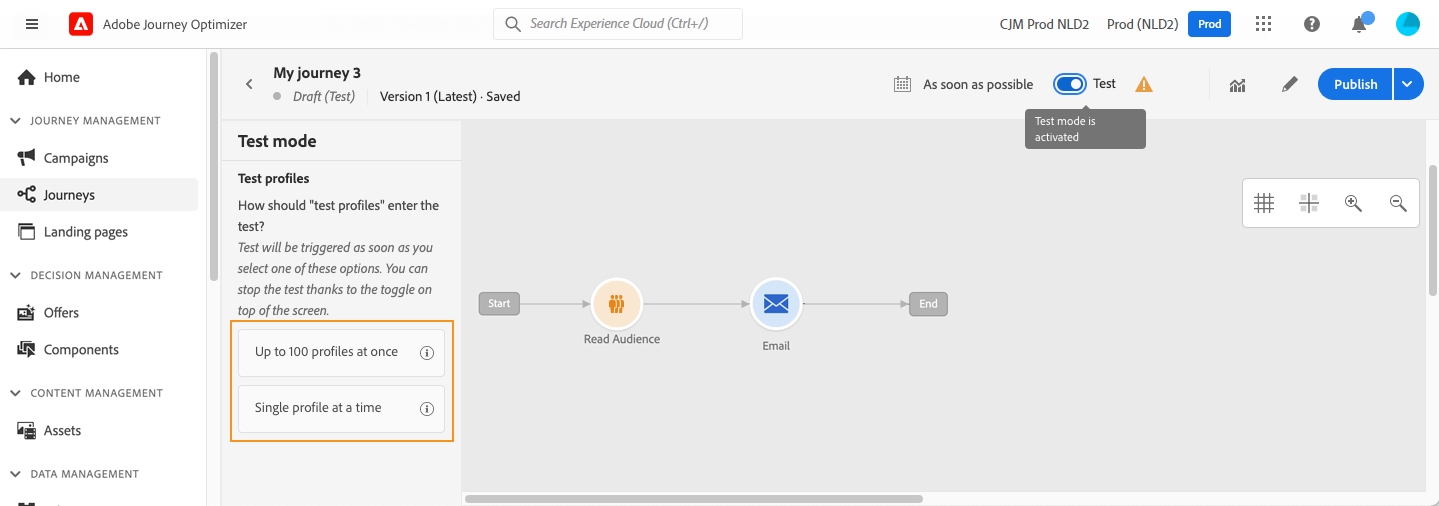
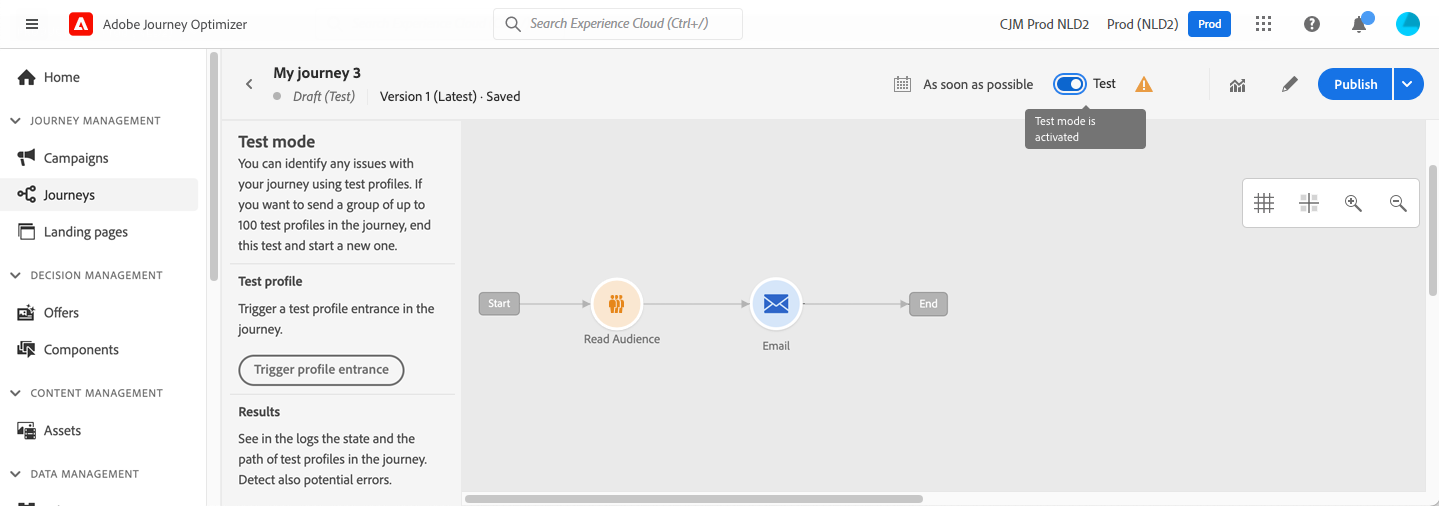
Fvi 23.9 (#1436)
* fix

* update for DOCAC-9088

* fix

* update for DOCAC-9265

* update for DOCAC-9089

* update for DOCAC-9165

* fix

* fix

* update for DOCAC-9174

* update for DOCAC-9174

* fix

* fix

* fix

* fix

* small fixes

* update for DOCAC-9147

* fix

* fix

* fix

* fix

Changed region(s): [[0.1529, 0.2668, 0.3058, 0.7708], [0.1529, 0.8597, 0.3058, 0.9783], [0.1529, 0.8004, 0.2752, 0.83]]

diff --git a/help/using/action/action-response.md b/help/using/action/action-response.md
@@ -11,20 +11,58 @@ badge: label="Beta" type="Informative"
 keywords: action, third-party, custom, journeys, API
 exl-id: 8f47b605-7179-4522-b50c-0ea34b09bd22
 ---
-# Custom action enhancements {#custom-action-enhancements}
+# Use API call responses in custom actions {#custom-action-enhancements}
 
-You can now leverage API call responses in custom actions and orchestrate your journeys based on these responses.
-
-This capability was previously only available when using data sources. You can now use it with custom actions. 
+You can leverage API call responses in custom actions and orchestrate your journeys based on these responses.
 
 >[!AVAILABILITY]
 >
->This feature is currently available as a private beta.
+>This feature is currently available in beta.
 
->[!WARNING]
->
->Custom actions should only be used with private or internal endpoints, and used with an appropriate capping or throttling limit. See [this page](../configuration/external-systems.md).
+<!--
+You can now leverage API call responses in custom actions and orchestrate your journeys based on these responses.
 
+This capability was previously only available when using data sources. You can now use it with custom actions. 
+-->
+
+## Important notes{#custom-action-enhancements-notes}
+
+<!--
+* Custom actions should only be used with private or internal endpoints, and used with an appropriate capping or throttling limit. See [this page](../configuration/external-systems.md). 
+-->
+
+* Scalar arrays are supported in response payload:
+
+    ```
+    "dummyScalarArray": [
+    "val1",
+    "val2"
+    ]
+    ```
+
+* Heterogeneous arrays are not supported in response payload:
+
+    ```
+    "dummyRandomArray": [
+    20,
+    "aafw",
+    false
+    ]
+    ```
+
+<!--
+## Best practices{#custom-action-enhancements-best-practices}
+
+A capping limit of 5000 calls/s is defined for all custom actions. This limit has been set based on customers usage, to protect external endpoints targeted by custom actions. You need to take this into account in your audience-based journeys by defining an appropriate reading rate (5000 profiles/s when custom actions are used). If needed, you can override this setting by defining a greater capping or throttling limit through our Capping/Throttling APIs. See [this page](../configuration/external-systems.md).
+
+You should not target public endpoints with custom actions for various reasons:
+
+* Without proper capping or throttling, there is a risk of sending too many calls to a public endpoint that may not support such volume.
+* Profile data can be sent through custom actions, so targeting a public endpoint could lead to inadvertently sharing personal information externally.
+* You have no control on the data being returned by public endpoints. If an endpoint changes its API or starts sending incorrect information, those will be made available in communications sent, with potential negative impacts.
+-->
+
+<!--
 ## Define the custom action {#define-custom-action}
 
 When defining the custom action, two enhancements have been made available: the addition of the GET method and the new payload response field. The other options and parameters are unchanged. See [this page](../action/about-custom-action-configuration.md).
@@ -49,10 +87,15 @@ The **Action parameters** section has been renamed **Payloads**. Two fields are 
 >Both these fields are optional.
 
 ![](assets/action-response2.png){width="70%" align="left"}
+-->
+
+## Configure the custom action {#config-response}
+
+1. Create the custom action. Refer to [this page](../action/about-custom-action-configuration.md).
 
 1. Click inside the **Response** field. 
 
-    ![](assets/action-response3.png){width="80%" align="left"}
+    ![](assets/action-response2.png){width="80%" align="left"}
 
 1. Paste an example of the payload returned by the call. Verify that the field types are correct (string, integer, etc.). Here is an example of response payload captured during the call. Our local endpoint sends the number of loyalty points and the status of a profile. 
 
@@ -111,6 +154,12 @@ For example, you can add a condition to check the number of loyalty points. When
 1. Add a custom action that will be sent to your organization.
 
     ![](assets/action-response11.png)
+
+## Test mode logs {#test-mode-logs}
+
+You can access, through test mode, status logs related to custom action responses. If you have defined custom actions with responses in your journey, you will see an **actionsHistory** section on those logs displaying the payload returned by the external endpoint (as a response from that custom action). This can be very useful in terms of debugging.
+
+![](assets/action-response12.png)
 
 ## Error status {#error-status}
 

diff --git a/help/using/action/about-custom-action-configuration.md b/help/using/action/about-custom-action-configuration.md
@@ -29,6 +29,16 @@ In custom action parameters, you can pass a simple collection, as well as a coll
 
 Also note that the custom actions parameters have an expected format (example: string, decimal, etc.). You must be careful to respect these expected formats. Learn more in this [use case](../building-journeys/collections.md).
 
+## Best practices{#custom-action-enhancements-best-practices}
+
+A capping limit of 5000 calls/s is defined for all custom actions. This limit has been set based on customers usage, to protect external endpoints targeted by custom actions. You need to take this into account in your audience-based journeys by defining an appropriate reading rate (5000 profiles/s when custom actions are used). If needed, you can override this setting by defining a greater capping or throttling limit through our Capping/Throttling APIs. See [this page](../configuration/external-systems.md).
+
+You should not target public endpoints with custom actions for various reasons:
+
+* Without proper capping or throttling, there is a risk of sending too many calls to a public endpoint that may not support such volume.
+* Profile data can be sent through custom actions, so targeting a public endpoint could lead to inadvertently sharing personal information externally.
+* You have no control on the data being returned by public endpoints. If an endpoint changes its API or starts sending incorrect information, those will be made available in communications sent, with potential negative impacts.
+
 ## Consent and data governance {#privacy}
 
 In Journey Optimizer, you can apply data governance and consent policies to your custom actions to prevent specific fields from being exported to third-party systems or exclude customers who have not consented to receive email, push or SMS communication. For more information, refer to the following pages:
@@ -64,11 +74,11 @@ Here are the main steps required to configure a custom action:
     >
     >When a custom action is used in a journey, most parameters are read-only. You can only modify the **[!UICONTROL Name]**, **[!UICONTROL Description]**, **[!UICONTROL URL]** fields and the **[!UICONTROL Authentication]** section.
 
-## URL configuration {#url-configuration}
+## Endpoint configuration {#url-configuration}
 
-When configuring a custom action, you need to define the following **[!UICONTROL URL Configuration]** parameters:
+When configuring a custom action, you need to define the following **[!UICONTROL Endpoint Configuration]** parameters:
 
-![](assets/journeyurlconfiguration.png)
+![](assets/action-response1bis.png){width="70%" align="left"}
 
 1. In the **[!UICONTROL URL]** field, specify the URL of the external service:
 
@@ -86,7 +96,7 @@ When configuring a custom action, you need to define the following **[!UICONTROL
     >
     >Only the default ports are allowed when defining a custom action: 80 for http and 443 for https.
 
-1. Select the call **[!UICONTROL Method]**: it can be either **[!UICONTROL POST]** or **[!UICONTROL PUT]**.
+1. Select the call **[!UICONTROL Method]**: it can be either **[!UICONTROL POST]**, **[!UICONTROL GET]** or **[!UICONTROL PUT]**.
 
     >[!NOTE]
     >
@@ -112,11 +122,17 @@ When configuring a custom action, you need to define the following **[!UICONTROL
     >
     >Headers are validated according to field parsing rules. Learn more in [this documentation](https://tools.ietf.org/html/rfc7230#section-3.2.4){_blank}.
 
-## Define the action parameters {#define-the-message-parameters}
+## Define the payload parameters {#define-the-message-parameters}
 
-In the **[!UICONTROL Action parameters]** section, paste an example of the JSON payload to send to the external service.
+1. In the **[!UICONTROL Request]** section, paste an example of the JSON payload to send to the external service. This field is optional and only available for POST and PUT calling methods.
 
-![](assets/messageparameterssection.png)
+1. In the **[!UICONTROL Response]** section, paste an example of the payload returned by the call. This field is optional and available for all calling methods. For detailed information on how to leverage API call responses in custome actions, refer to [this page](../action/action-response.md).
+
+>[!NOTE]
+>
+>The response capability is currently available in beta.
+
+![](assets/action-response2bis.png){width="70%" align="left"}
 
 >[!NOTE]
 >

diff --git a/help/using/building-journeys/read-audience.md b/help/using/building-journeys/read-audience.md
@@ -110,23 +110,17 @@ To activate this mode, click the **Segment Filters** toggle. Two fields are disp
 
 ### Test and publish the journey {#testing-publishing}
 
-The **[!UICONTROL Read Audience]** activity allows you to test the journey either on a unitary profile, or on 100 randomly test profiles selected among the profiles qualified for the audience.
+The **[!UICONTROL Read Audience]** activity allows you to test the journey on a unitary profile.
 
-To do this, activate the test mode, then select the desired option from the left pane.
+To do this, activate the test mode.
 
 ![](assets/read-segment-test-mode.png)
 
-You can then configure and run the test mode as usual. [Learn how to test a journey](testing-the-journey.md).
+Configure and run the test mode as usual. [Learn how to test a journey](testing-the-journey.md).
 
-Once the test is running, the **[!UICONTROL Show logs]** button allows you to see the test results according to the selected test option:
+Once the test is running, the **[!UICONTROL Show logs]** button allows you to see the test results. For more on this, refer to [this section](testing-the-journey.md#viewing_logs)
 
-* **[!UICONTROL Single profile at a time]**: the test logs display the same information as when using the unitary test mode. For more on this, refer to [this section](testing-the-journey.md#viewing_logs)
-
-* **[!UICONTROL Up to 100 profiles at once]**: the test logs allow you to track the progression of the audience export from Adobe Experience Platform, as well as the individual progress of all the persons that entered the journey.
-
-    Note that testing the journey using up to 100 profiles at once does not allow you to track the progress of the individuals in the journey using the visual flow.
-
-    ![](assets/read-segment-log.png)
+![](assets/read-segment-log.png)
 
 Once the tests are successful, you can publish your journey (see [Publishing the journey](publishing-the-journey.md)). Individuals belonging to the audience will enter the journey on the date/time specified in the journey's properties **[!UICONTROL Scheduler]** section.
 

diff --git a/help/using/building-journeys/audience-qualification-events.md b/help/using/building-journeys/audience-qualification-events.md
@@ -25,14 +25,17 @@ Let's say you have a "silver customer" audience. With this activity, you can mak
 
 This type of event can be positioned as the first step or later in the journey.
 
->[!IMPORTANT]
->
->Keep in mind that Adobe Experience Platform audiences are calculated either once a day (**batch** audiences) or in real-time (**streamed** audiences, using the High Frequency Audiences option of Adobe Experience Platform).
->
->If the selected audience is streamed, the individuals belonging to this audience will potentially enter the journey in real-time. If the audience is batch, people newly qualified for this audience will potentially enter the journey when the audience calculation is executed on Adobe Experience Platform.
->
->Experience event field groups can not be used in journeys starting with a Read audience, an Audience qualification or a business event activity.
+### Important notes{#important-notes-segment-qualification}
 
+* Keep in mind that Adobe Experience Platform audiences are calculated either once a day (**batch** audiences) or in real-time (**streamed** audiences, using the High Frequency Audiences option of Adobe Experience Platform).
+
+* If the selected audience is streamed, the individuals belonging to this audience will potentially enter the journey in real-time. If the audience is batch, people newly qualified for this audience will potentially enter the journey when the audience calculation is executed on Adobe Experience Platform.
+
+* Experience event field groups can not be used in journeys starting with a Read audience, an Audience qualification or a business event activity.
+
+* When using an audience qualification in a journey, that audience qualification activity may take up to 10 minutes to be active and listen to profiles entering or exiting the audience.
+
+### Configure the activity{#cnfigure-segment-qualification}
 
 1. Unfold the **[!UICONTROL Events]** category and drop an **[!UICONTROL Audience Qualification]** activity into your canvas.
 

diff --git a/help/using/building-journeys/journeys-message.md b/help/using/building-journeys/journeys-message.md
@@ -114,6 +114,24 @@ This information is stored with the user's profile and is referenced at journey 
 >
 >This feature is not compatible with burst mode.
 
+### Frequently-Asked-Questions {#faq-send-time}
+
+What can Send-Time Optimization do? How does it handle new profiles? Does it spread the send over a 6/12/24 hour window?
+
+Send-Time Optimization tries to predict the best time to engage with customers and optimize open/click rates of emails. The score is in a format of `3*7*24` attributes for each profile. The `7*24` attributes describe the ranking of the predicted best time to send out emails to the recipient and 3 is for optimizing email open rate, email click rate and push open rate.
+
+Where can I see the expected send time for each profile?
+
+You can see the overall score in the **Profiles** interface. For each of the three sets of 168 scores, the ranks go from -83 to 84. The higher the rank is, the better time was chosen to interact with the recipient. Since you can define the start and duration of a journey, the best rank (84) may not fall into that time window. In this case, we recommend choosing an hour with the highest rank value.
+
+What reporting is available?
+
+Access your journey, click the **View report** button in the top right and select the **Journey** tab on the left. [Read more](../reports/journey-global-report.md)
+
+How does Send-Time Optimization data affect profile richness?
+
+Send-Time Optimization adds the score/attributes to each profile but no new profile is created.
+
 ### Activate Send-Time Optimization{#activate-send-time-optimization}
 
 >[!CONTEXTUALHELP]

diff --git a/help/using/start/guardrails.md b/help/using/start/guardrails.md
@@ -40,6 +40,7 @@ Adobe [!DNL Journey Optimizer] interface is designed to work optimally in the la
 
 * The number of activities in a journey is limited to 50. The number of activities is displayed on the upper left section of the journey canvas. This will help in readability, QA and troubleshooting. 
 * As you publish journeys, we automatically scale and adjust to ensure maximum throughput and stability. As you near the milestone of 100 live journeys at one time, you will see a notification appear in the UI on this achievement. If you see this notification and have a need to extend your journeys beyond 100 live journeys at a time, please create a ticket for customer care and we will help you reach your goals. 
+* When using an audience qualification in a journey, that audience qualification activity may take up to 10 minutes to be active and listen to profiles entering or exiting the audience.
 
 ### General actions {#general-actions-g}
 
@@ -59,6 +60,7 @@ Adobe [!DNL Journey Optimizer] interface is designed to work optimally in the la
 
 ### Custom actions {#custom-actions-g}
 
+* A capping limit of 5000 calls/s is defined for all custom actions. This limit has been set based on customers usage, to protect external endpoints targeted by custom actions.
 * The custom action URL does not support dynamic parameters.
 * POST, PUT and GET call methods are supported
 * The name of the query parameter or header must not start with "." or "$"

diff --git a/help/using/rn/documentation-updates.md b/help/using/rn/documentation-updates.md
@@ -12,6 +12,12 @@ This page lists all the documentation updates for [!DNL Journey Optimizer].
 ## September 2023 {#september-2023}
 
 * All new features and improvements coming with [!DNL Journey Optimizer] September '23 release have been detailed in the documentation. [Read more](release-notes.md)
+* A new page has been added with scaling best practices and real-time stitching guidance. [Read more](../start/best-practices.md)
+
+<!--  * The maximum wait duration has been changed from 30 to 29 days. [Read more](../building-journeys/wait-management.md) -->
+
+* A Frequently-Asked-Questions section has been added for Send-Time Optimization. [Read more](../building-journeys/journeys-message.md#faq-send-time)
+* A note has been added for the audience qualification activity. It may take up to 10 minutes to be active and listen to profiles entering or exiting the audience. [Read more](../building-journeys/audience-qualification-events.md#important-notes-segment-qualification)
 * A list of limitations to be aware of when creating decision rules has been added to the decision management documentation. [Read more](../offers/offer-library/creating-decision-rules.md)
 * Links to access control documentation have been updated. [Read more](../administration/permissions.md)
 * In-app channel prerequisites have been updated with Adobe Experience Platform Data Collection details. [Read more](../in-app/inapp-configuration.md)

diff --git a/help/using/building-journeys/testing-the-journey.md b/help/using/building-journeys/testing-the-journey.md
@@ -108,7 +108,7 @@ When triggering an event, the **Event configuration** screen allows you to defin
 
 ## Test mode for business events {#test-business}
 
-When using a [business event](../event/about-events.md), use the test mode to trigger a single test profile entrance in the journey, simulate the event and pass the right profile ID. You have to pass the event parameters and the identifier of the test profile that will enter the journey in test. You cannot use the **[!UICONTROL Up to 100 profiles at once]** option that exists for other audience based journeys. In test mode, there is no "Code view" mode available for journeys based on business events.
+When using a [business event](../event/about-events.md), use the test mode to trigger a single test profile entrance in the journey, simulate the event and pass the right profile ID. You have to pass the event parameters and the identifier of the test profile that will enter the journey in test. In test mode, there is no "Code view" mode available for journeys based on business events.
 
 Note that when you first trigger a business event, you cannot change the business event definition in the same test session. You can only make the same individual or a different individual enter the journey passing the same or another identifier. If you want to change business event parameters, you must stop and start again test mode.
 

diff --git a/help/using/configuration/capping.md b/help/using/configuration/capping.md
@@ -56,6 +56,8 @@ Here is the basic structure of an endpoint configuration:
 >The **maxHttpConnections** parameter is optional. It allows you to restrict the number of connections Journey Optimizer will open to the external system.
 >
 >The max value that can be set is 400. If nothing is specified, then the system may open up to multiple thousands of connections depending on the dynamic scaling of the system.
+>
+>When the capping configuration is deployed, if no 'maxHttpConnection' value has been provided, a default "maxHttpConnection = -1" is added into the deployed configuration, meaning that Journey Optimizer will use the default system value.
 
 ### Example:
 
@@ -67,14 +69,12 @@ Here is the basic structure of an endpoint configuration:
   ],
   "services": {
     "dataSource": {
-      "maxHttpConnections": 50,
       "rating": {
         "maxCallsCount": 500,
         "periodInMs": 1000
       }
     }
-  },
-  "orgId": "<IMS Org Id>"
+  }
 }
 ```
 

diff --git a/help/using/building-journeys/journeys-uc.md b/help/using/building-journeys/journeys-uc.md
@@ -109,6 +109,6 @@ The event is now configured and ready to be used in your journey. Using the corr
 
 1. Before testing your journey, verify that it is valid and that there is no error.
 
-1. Click on the **Test** toggle, located in the top right corner, to activate the test mode. Define how you want test profiles to enter the test: a single profile, or up to 100 at once. Refer to this [section](testing-the-journey.md) to learn how to use the test mode.
+1. Click on the **Test** toggle, located in the top right corner, to activate the test mode. Refer to this [section](testing-the-journey.md) to learn how to use the test mode.
 
 1. When the journey is ready, publish it using the **Publish** button, located in the top right corner.

diff --git a/help/using/building-journeys/journey-gs.md b/help/using/building-journeys/journey-gs.md
@@ -178,8 +178,8 @@ To perform this, follow the steps below:
 
     ![Duplicate a journey](assets/duplicate-jo.png)
 
-<!--1. Enter the name of the journey and confirm. 
+1. Enter the name of the journey and confirm. You can also change the name in the journey properties screen. By default, the name is set as follows: `[JOURNEY-NAME]_copy`
 
-    If no name is specified, t-->The journey copy name is set to the default name, i.e. the name of the initial journey with `_copy` characters added at the end. It can be changed in the journey properties screen.
+    ![](assets/duplicate-jo2.png)
 
 1. The new journey is created and available in the journey list.

diff --git a/help/using/start/best-practices.md b/help/using/start/best-practices.md
@@ -7,8 +7,6 @@ feature: Journeys
 topic: Content Management
 role: User
 level: Intermediate
-hide: yes
-hidefromtoc: yes
 exl-id: 30b5ad5e-a85e-4630-ba96-25091af11d12
 ---
 # Best practices {#best-practices}
